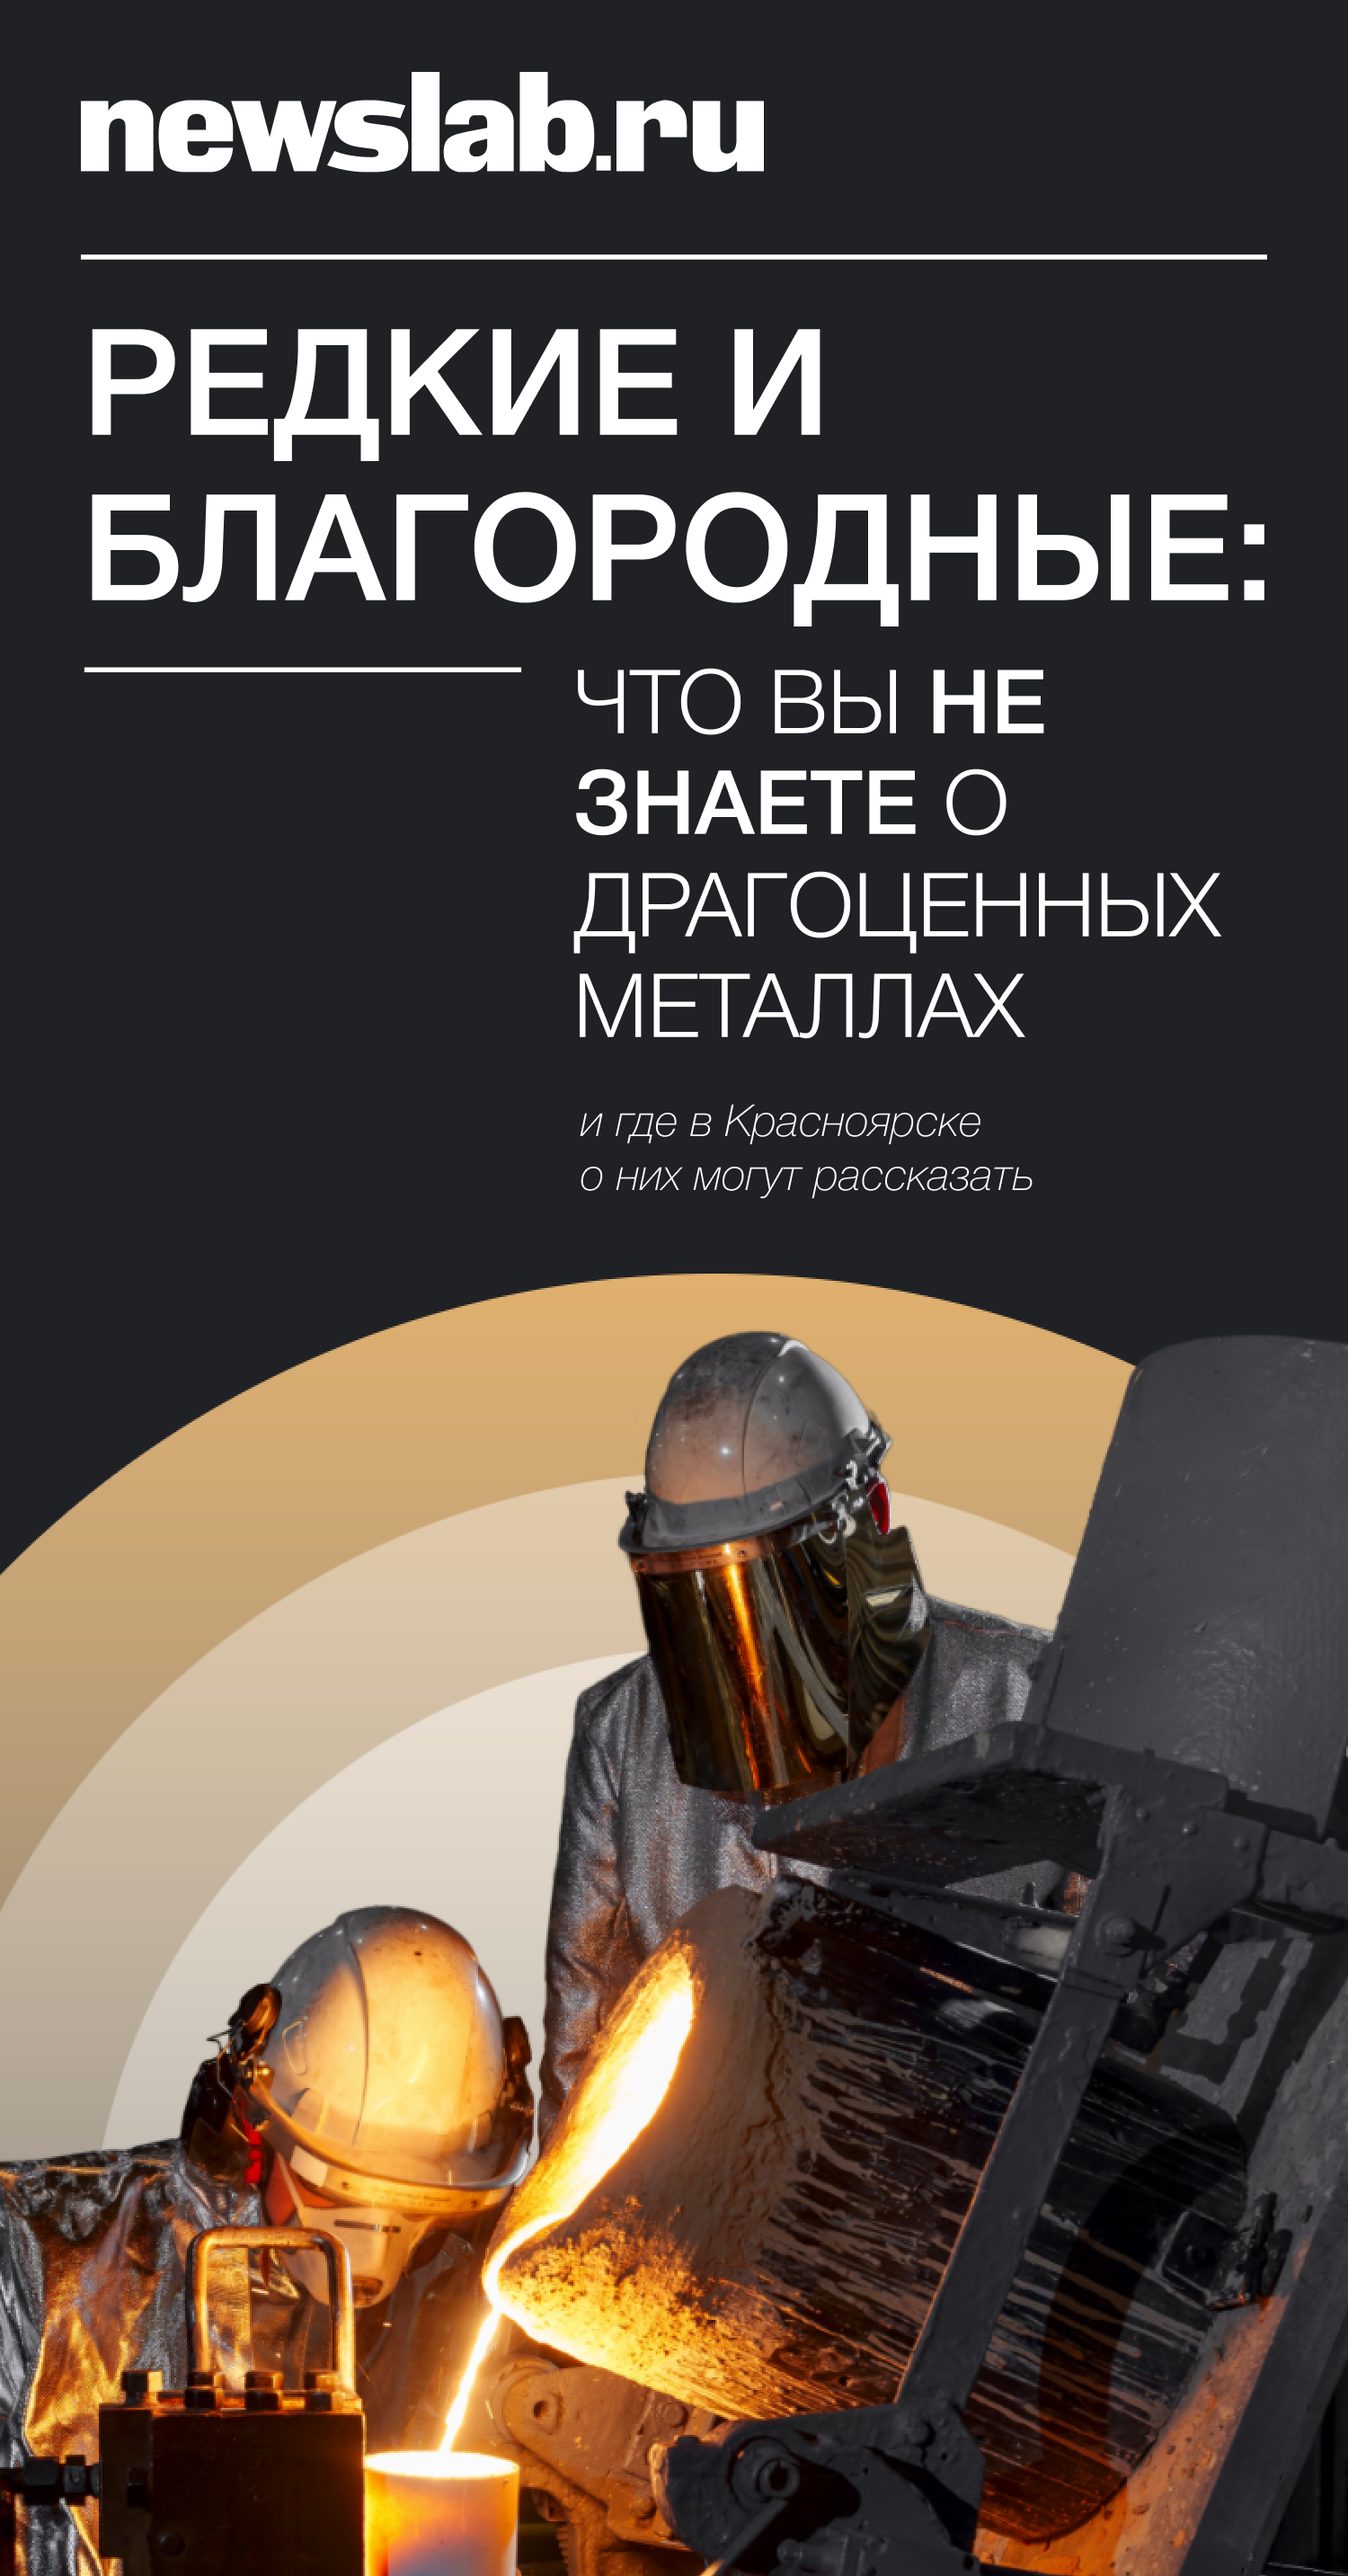
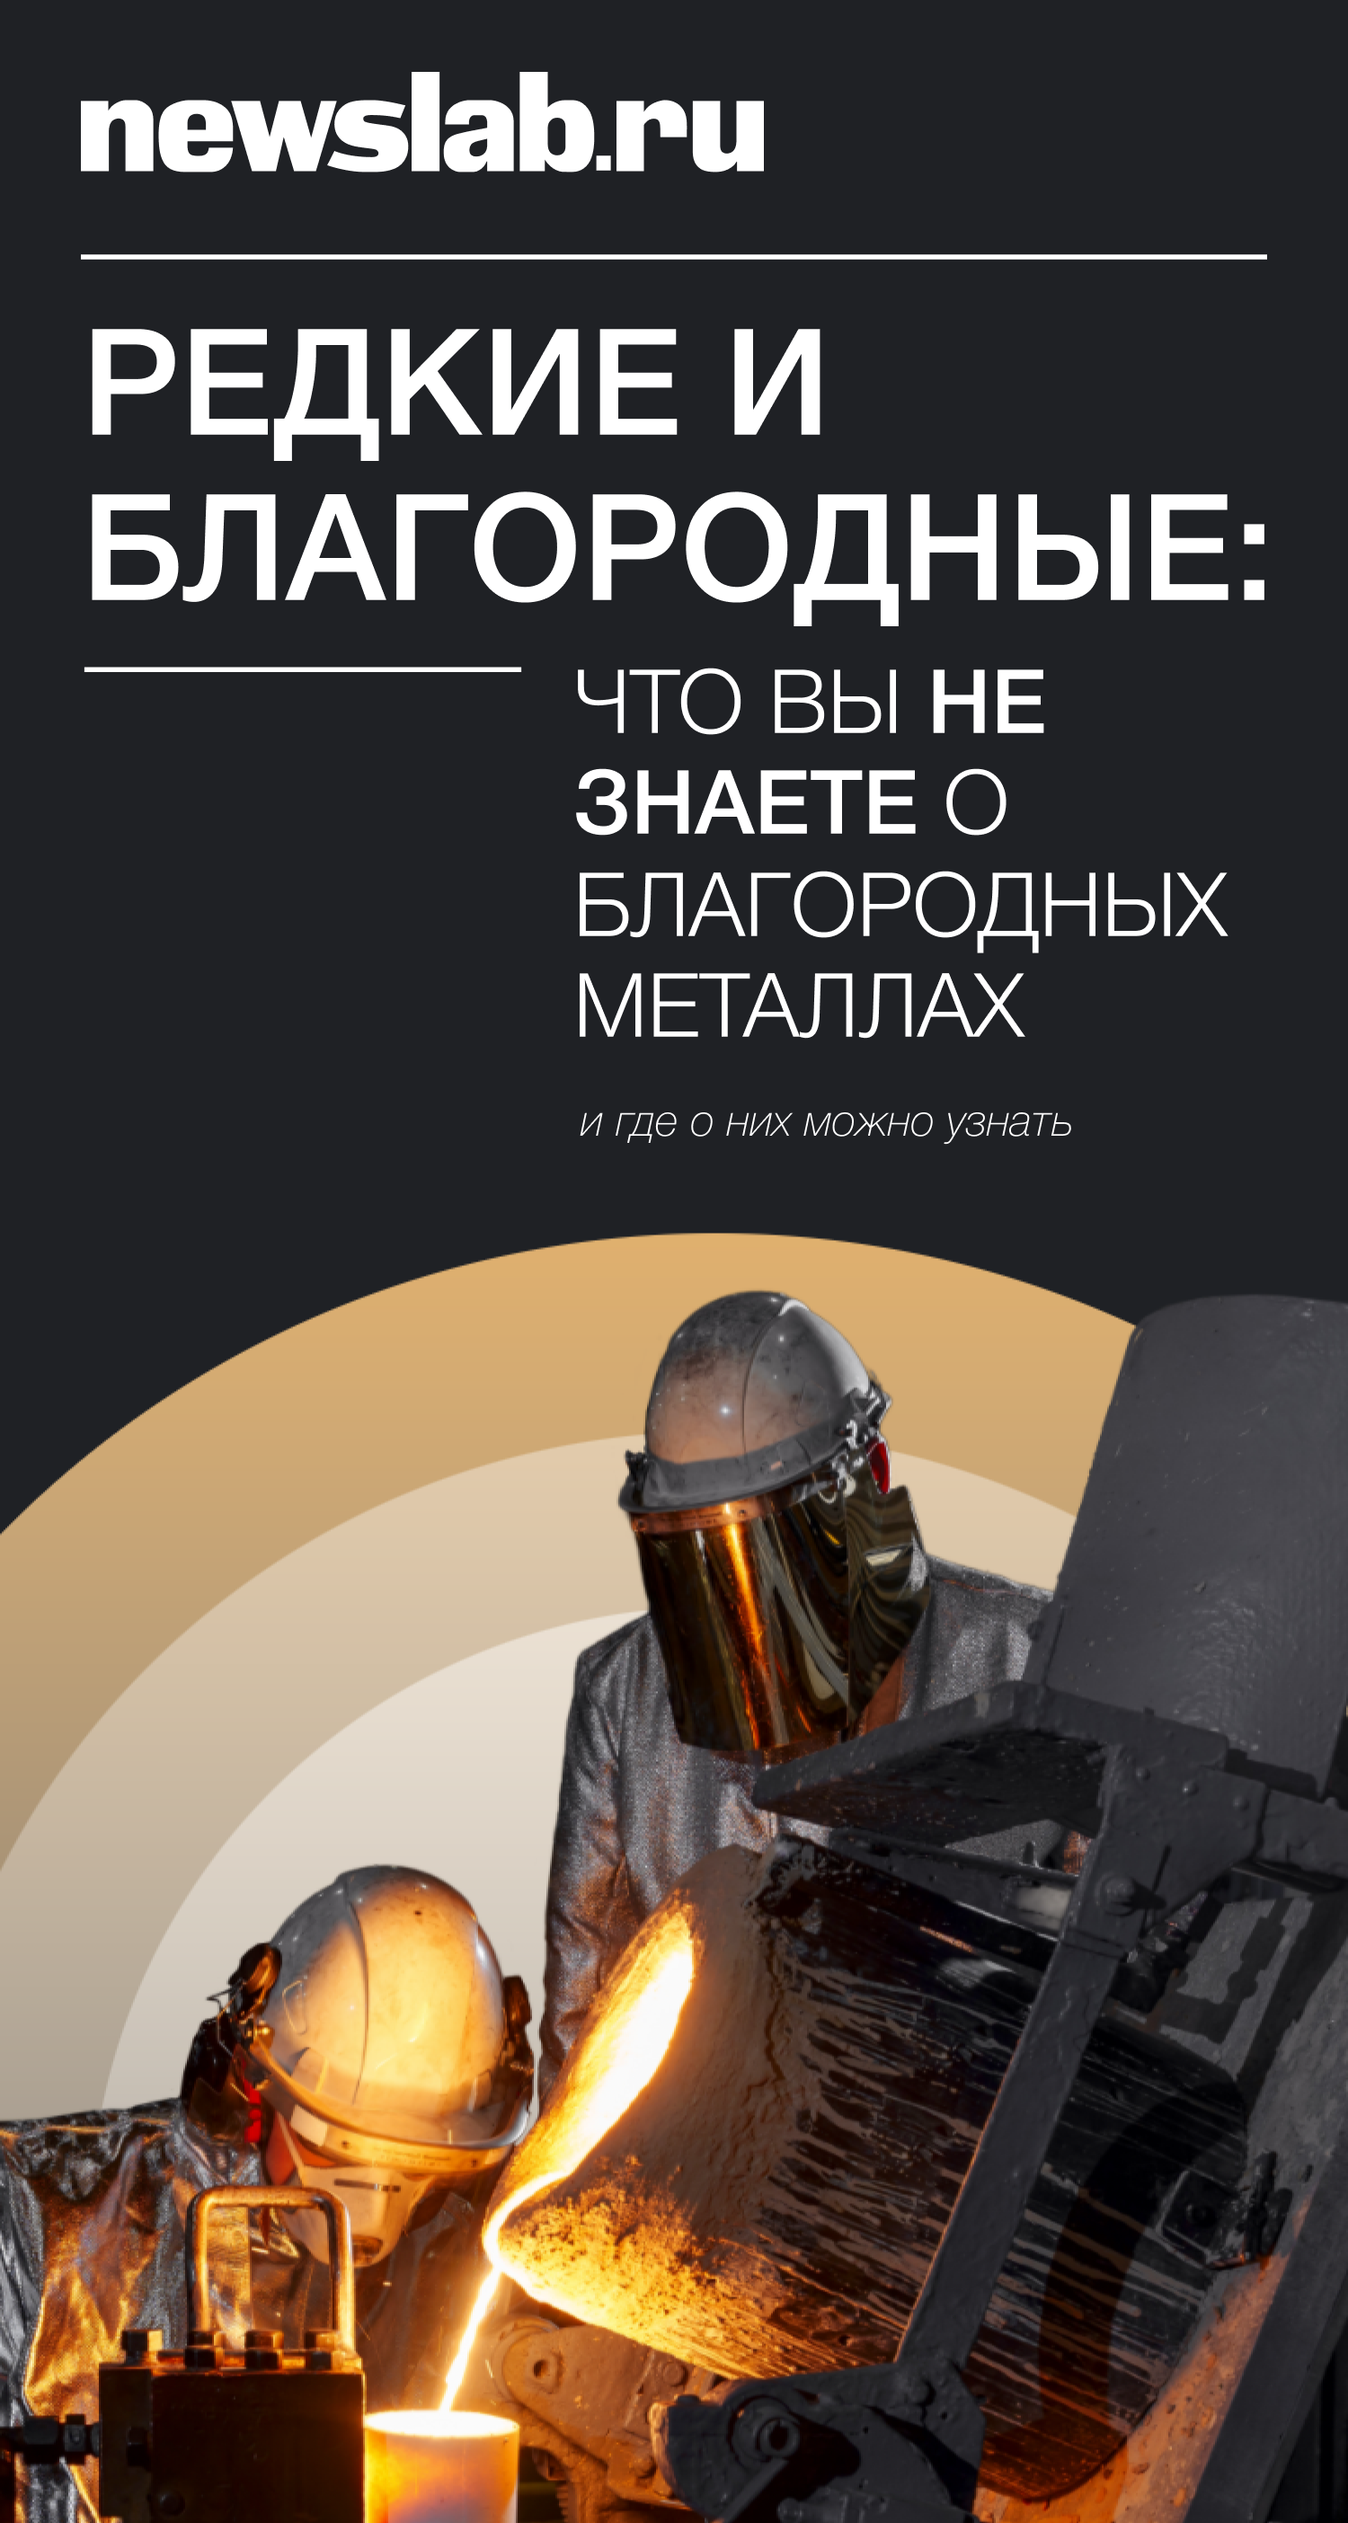
Add files via upload

diff --git a/index.html b/index.html
@@ -22,7 +22,7 @@
       </div>
       <div class="links">
         <a class="link" onclick="scroll_part1()">ЧТО ТАКОЕ ДРАГОЦЕННЫЕ МЕТАЛЛЫ?</a>
-        <a class="link" onclick="scroll_part2()">ГДЕ ИХ МОЖНО УВИДЕТЬ?</a>
+        <a class="link" onclick="scroll_part2()">ГДЕ О НИХ МОЖНО УЗНАТЬ?</a>
         <a class="link" onclick="scroll_part3()">ПРОФЕССИОНАЛИЗМ В КАЖДОМ СЛИТКЕ</a>
         <a class="link" onclick="scroll_part4()">ИНТЕРЕСНЫЕ ФАКТЫ</a>
       </div>
@@ -174,11 +174,11 @@
       <div class="narrative part2">
         <div class="content">
           <p class="part ">ЧАСТЬ 2</p>
-          <h2 class="title">Где их можно<span class="desktop-br"><br></span> увидеть?</h2>
+          <h2 class="title">Где о них <span class="desktop-br"><br></span>можно узнать?</h2>
           <p class="description">
             В России существует <strong>всего один интерактивный музей</strong><span class="desktop-br"><br></span> драгоценных металлов. Он находится в Красноярске на территории Красцветмета!
           </p>
-          <p class="description">
+          <p class="description">
             Посетить его может любой желающий: вход свободный. Для организованных групп <span class="desktop-br"><br></span> специалисты компании проводят экскурсии по предварительной записи. <span class="desktop-br"><br></span> Здесь можно узнать, как добывают, перерабатывают драгоценные металлы <span class="desktop-br"><br></span>
              и чем же они полезны человечеству.
           </p>

diff --git a/styles.css b/styles.css
@@ -167,7 +167,7 @@ nav {
 .offer {
   position: absolute;
   left: 80px;
-  top: 140px;
+  top: 148px;
 }
 
 /* Логотип */
